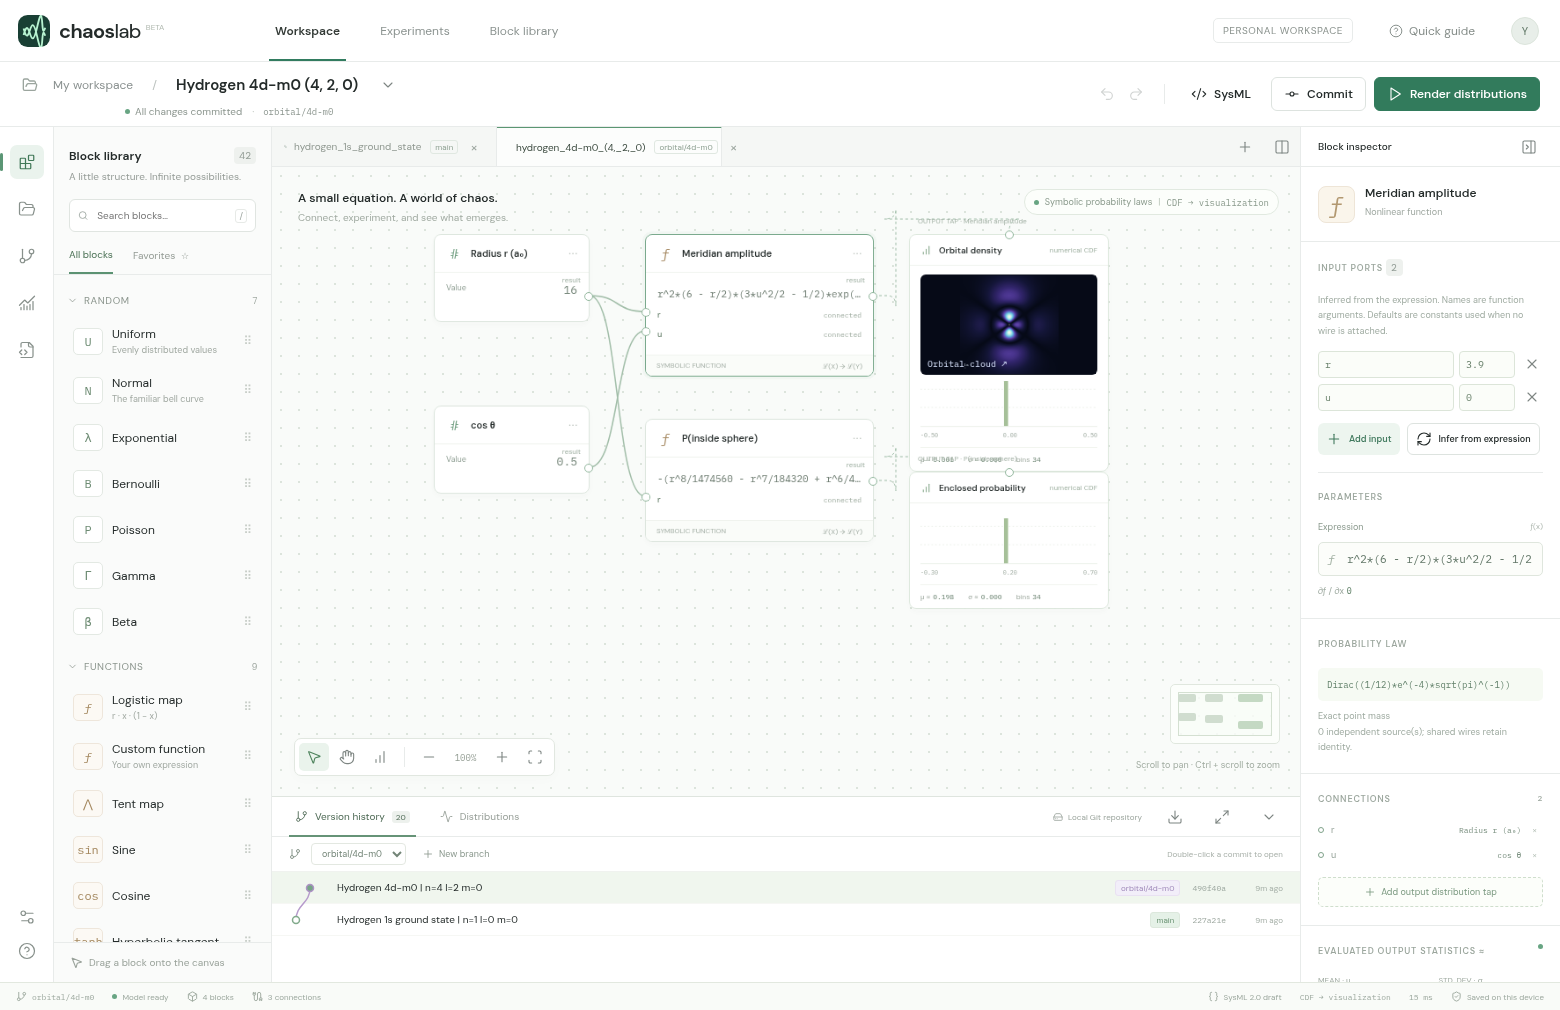
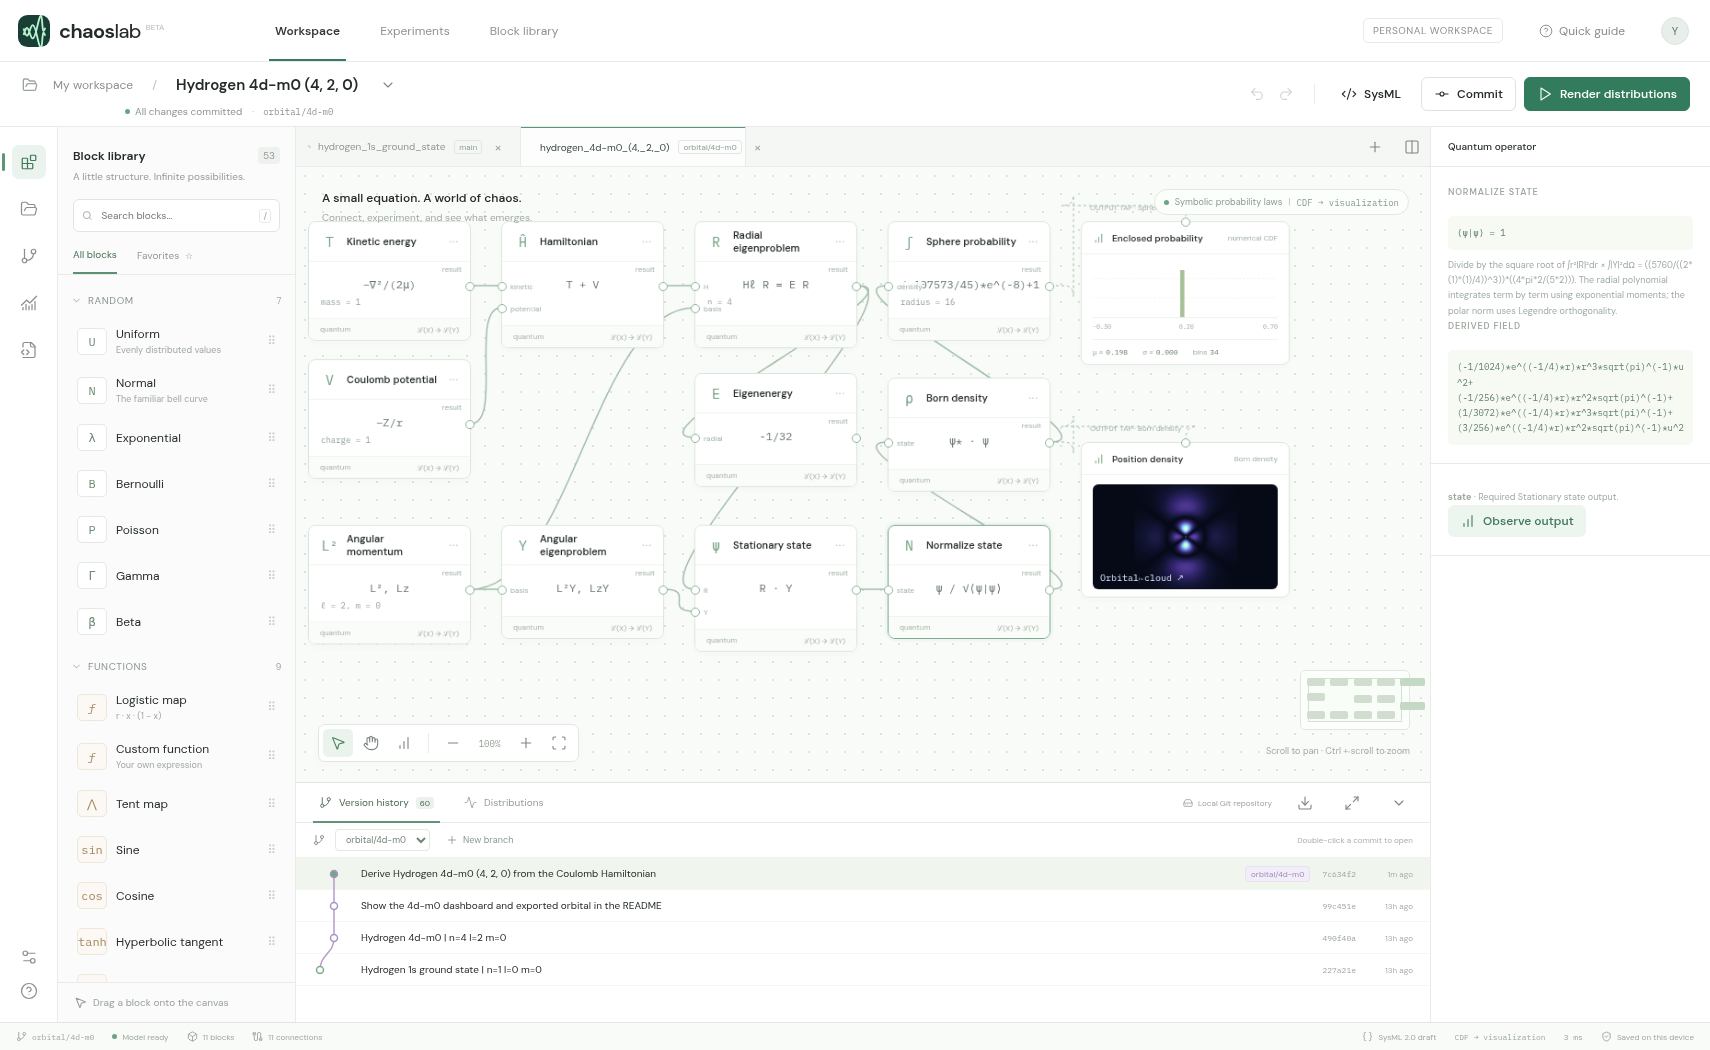
Show the derived state and operator graph for orbital/4d-m0

diff --git a/README.md b/README.md
@@ -4,6 +4,8 @@ Open **Version history** in Chaos Lab to explore the 20 hydrogen designs in this
 
 ## Hydrogen 4d (n = 4, ℓ = 2, m = 0)
 
+The connected Hamiltonian and eigenstate solvers give $E=-1/32$ Hartree for this state.
+
 ![Chaos Lab dashboard with the 4d model, m = 0, open in version history](dashboard.png)
 
 Radial nodes: 1. Polar nodes: 2. Plot half-width: 32 Bohr radii.
@@ -22,7 +24,7 @@ cd hydrogen_wavefunction
 python studio.py
 ```
 
-On Windows you can use `py studio.py`. On Linux you can use `python3 studio.py`. The first launch downloads the pinned Chaos Lab browser build. Double-click a commit to open it in a tab. Open another and use **Split view** to compare them. **Orbital cloud ↗** opens the spatial plots. The launcher reads the Git objects from your clone, including origin branches. Run `git fetch origin` and restart the launcher to load new remote branches.
+On Windows you can use `py studio.py`. On Linux you can use `python3 studio.py`. The first launch downloads the pinned Chaos Lab browser build. Double-click a commit to open it in a tab. Open another and use **Split view** to compare them. **Orbital cloud ↗** opens the spatial plots. The launcher reads the Git objects from your clone, including origin branches. For an existing clone, update the checked-out branch with `git pull --ff-only`, fetch the other branches with `git fetch origin`, and restart the launcher. Double-click the latest commit for the design you want to explore.
 
 To compare states with the same radial law, open `orbital/2p-m0` and `orbital/2p-m1`. At the same radius their enclosed-probability probes agree. The first slice is dark on the equatorial plane, while the second is dark along the polar axis.
 
@@ -32,7 +34,17 @@ To compare states with the same radial law, open `orbital/2p-m0` and `orbital/2p
 
 Branch names encode `(n, ℓ, m)`. For example, `orbital/3d-m1` is `(3,2,1)`. Each snapshot includes the editable graph, its compiled symbolic representation, and its SysML text. Each excited-state branch also contains a reference cross-section.
 
-Coordinates are in Bohr radii. These are normalized fixed-proton, nonrelativistic spatial eigenstates in the complex spherical-harmonic basis. For a fixed m the azimuthal phase is exp(i m φ), so probability density is axially symmetric. The graph evaluates the real meridian amplitude at φ = 0 using radius r and u = cos θ. Its square is probability per unit volume. The sphere probe integrates the radial Born law. The field tap sweeps the same amplitude expression for the x–z slice and its projected detections. Detections are drawn for display from a numerical grid of the final density including the r² volume factor. Brightness and plotting windows are scaled per orbital.
+## How the graph derives this orbital
+
+1. **Kinetic energy** and **Coulomb potential** supply the relative-coordinate operators in atomic units. Their wires feed **Hamiltonian**, which constructs $H=-\nabla^2/(2\mu)-Z/r$. The default is a fixed proton, $Z=\mu=1$.
+2. **Angular momentum** selects the joint eigenvalues of $L^2$ and $L_z$. **Radial eigenproblem** uses that angular eigenvalue in the centrifugal term. Regularity at the origin, decay at infinity, and radial-series termination give the polynomial and energy. **Angular eigenproblem** constructs the polar polynomial by Rodrigues differentiation and includes the phase $e^{im\phi}$.
+3. **Stationary state** multiplies the separated basis functions. **Normalize state** computes their norm with the spherical volume measure. **Born density** takes the squared modulus of the normalized state. **Sphere probability** integrates that density to the probe radius.
+4. Select a block to inspect its equation and derivation. Change **Nuclear charge** from 1 to 2. The energy becomes four times more negative and the orbital contracts by a factor of two. The plot rescales with the orbital, so use its Bohr-radius scale bar to see the change.
+
+The central slice evaluates the final density in the x–z plane. Projected detections sample the final density on a finite radial and angular grid with the spherical volume factor. Coordinates use Bohr radii and energy uses Hartree.
+
+The branch stores the operator graph in `model.json`, its derived fields and scalar laws in `model.symbolic.json`, and the block connections in `model.sysml`. With SymPy installed, run `python tools/verify_state.py` in a checkout of this branch to check the eigenvalue equations, normalization, radial reference solution and sphere integral.
+
 
 | n | ℓ | m | Design branch |
 |---|---|---|---|
